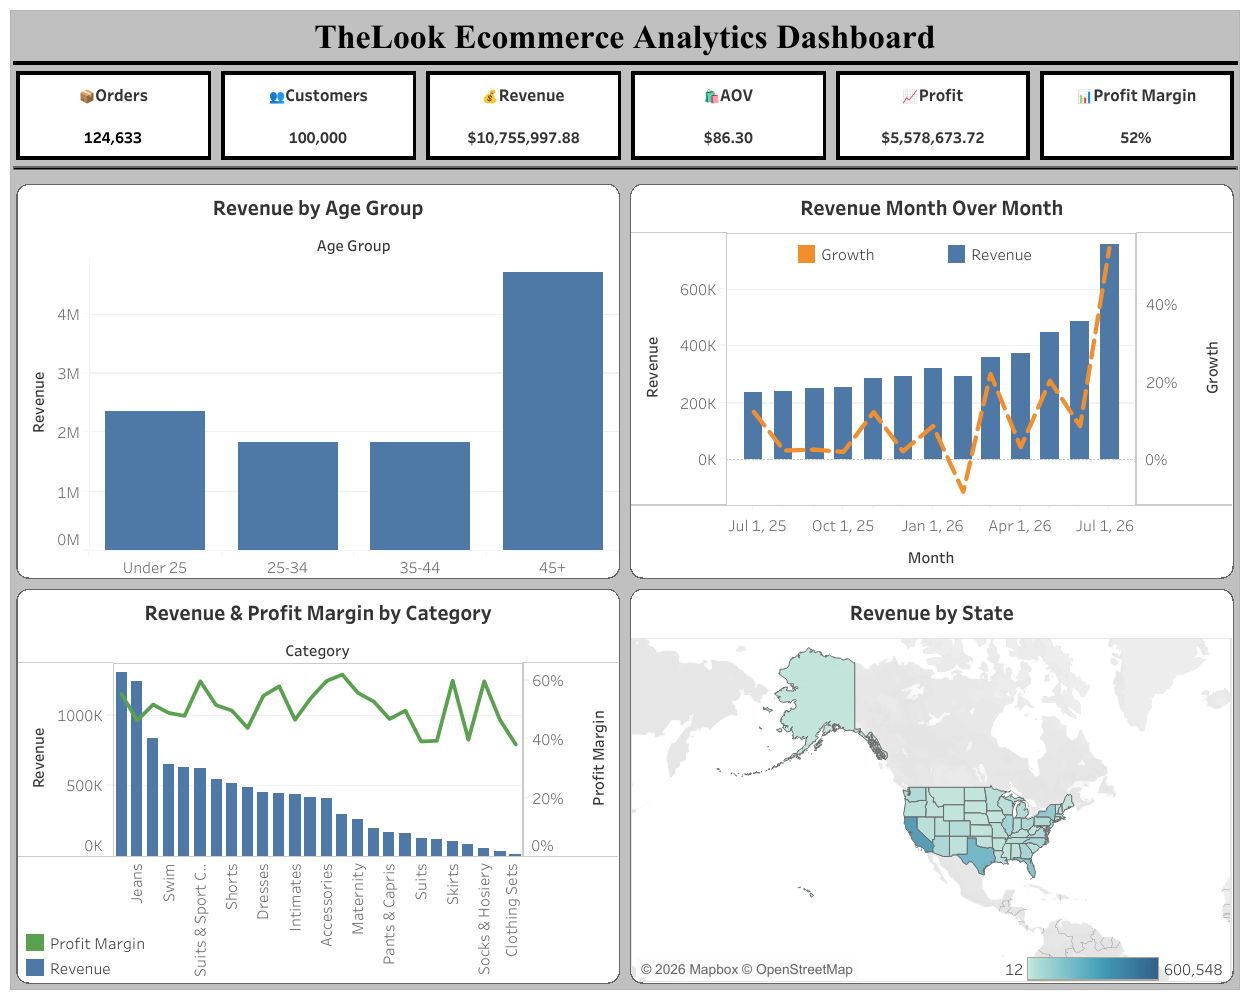
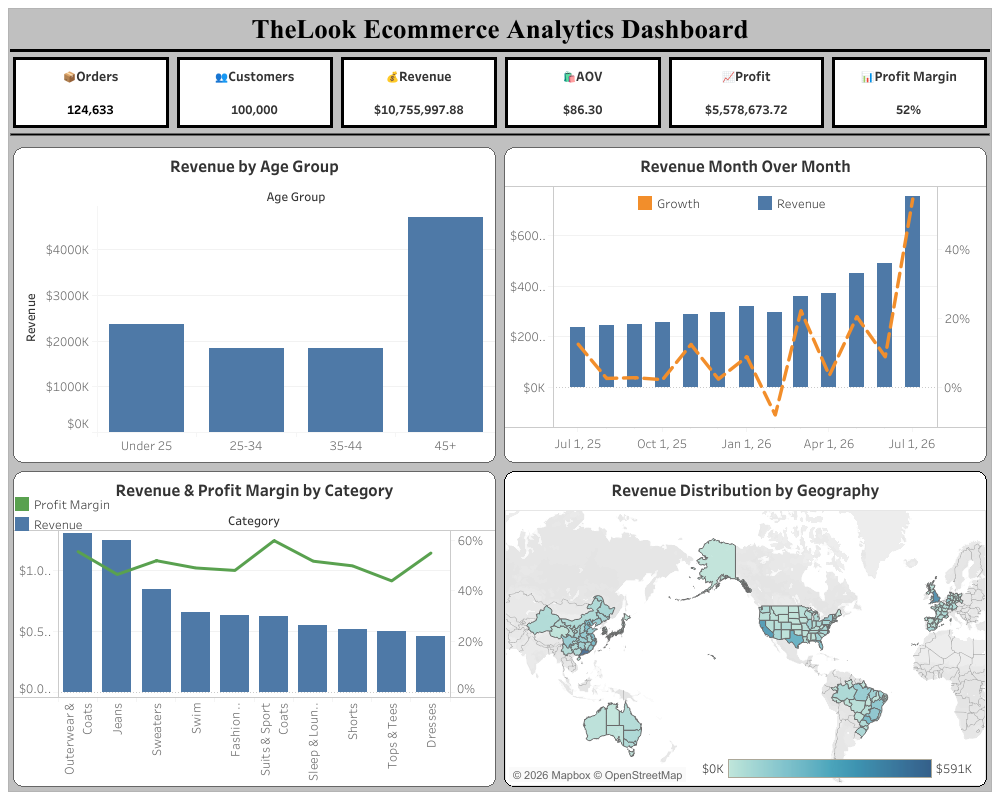
update thelook queries

diff --git a/thelook-ecommerce-analysis/README.md b/thelook-ecommerce-analysis/README.md
@@ -21,90 +21,19 @@ The dataset contains information on:
 
 The analysis focuses on sales performance, customer purchasing patterns, product profitability, and regional revenue distribution.
 
-**Last Updated:** 21 July 2026
-
----
-
-## Tools Used
-
-* Google BigQuery
-* SQL
-* Tableau Public
-
----
-
-## Project Workflow
-
-### 1. Data Exploration
-
-Explored and joined multiple tables from the dataset to understand relationships between customers, orders, products, and geographic locations.
-
-### 2. SQL Analysis
-
-Business questions were answered through SQL queries organized into separate analysis files:
-
-* [data_exploration.sql](./sql/data_exploration.sql)
-* [combined_kpi_query.sql](./sql/combined_kpi_query.sql)
-* [sales_analysis.sql](./sql/sales_analysis.sql)
-* [customer_analysis.sql](./sql/customer_analysis.sql)
-* [product_analysis.sql](./sql/product_analysis.sql)
-* [geographic_analysis.sql](./sql/geographic_analysis.sql)
-
-### 3. Dashboard Development
-
-The SQL outputs were visualized in Tableau Public to create an interactive dashboard focused on:
-
-* Business KPIs
-* Revenue Trends
-* Customer Demographics
-* Product Performance
-* Geographic Performance
+Tools Used: Google BigQuery, SQL, Tableau Public
 
 ---
 
 ## Analysis Performed
 
-### KPI Analysis
+### [Data Exploration](./sql/data_exploration.sql)
+
+I reviewed the dataset for missing values, duplicate primary keys, unusual age entries, pricing inconsistencies, order status distribution, and table relationships. No significant data quality issues were identified, and the data was suitable for sales, customer, and product analysis. Users were distributed across 14 countries. During the review, I found a few cases where country names were recorded in both English and local formats, such as Spain/España (1 user) and Germany/Deutschland (4 users).
+
+### [KPI Analysis](./sql/combined_kpi_query.sql)
 
 Calculated core business metrics:
-
-* Total Revenue
-* Total Orders
-* Total Customers
-* Average Order Value (AOV)
-* Total Profit
-* Overall Profit Margin
-
-### Sales Analysis
-
-* Monthly Revenue Trend
-* Month-over-Month Revenue Growth
-* Revenue Contribution by Customer Age Group
-
-### Customer Analysis
-
-* Top Spending Customers
-* Customer Distribution by Age Group
-* Customers with Multiple Purchases
-
-### Product Analysis
-
-* Top Revenue-Generating Products
-* Revenue by Product Category
-* Profit by Product Category
-* Profit Margin by Product Category
-* Highest Profit Products
-* Products Priced Above Average Retail Price
-
-### Geographic Analysis
-
-* Revenue by U.S. State
-* States with Highest Revenue
-* States with Highest Number of Inactive Customers
-
----
-
-## Key Performance Indicators
 
 | Metric              | Value  |
 | ------------------- | ------ |
@@ -115,28 +44,42 @@ Calculated core business metrics:
 | Total Profit        | $5.5M  |
 | Profit Margin       | 52%    |
 
----
+### [Sales Analysis](./sql/sales_analysis.sql)
 
-## Key Dashboard Insights
+* Monthly Revenue Trend
+* Month-over-Month Revenue Growth
+* Revenue Contribution by Customer Age Group
 
-### Customer Insights
+Monthly revenue showed a generally upward trend over time. Month over month (MoM) growth remained relatively stable, with occasional declines but no recurring negative pattern. Customers aged 45 and above contributed the largest share of revenue, accounting for approximately 44% of the total.
 
-* Customers aged **45+** generated the highest revenue among all age groups.
-* Older customer segments represent a significant revenue-driving demographic.
 
-### Sales Performance
+### [Customer Analysis](./sql/customer_analysis.sql)
 
-* Revenue showed consistent month-over-month growth during the analysis period.
+* Customer Distribution by Age Group
+* Customers with Multiple Purchases
+* Repeat Customers
 
-### Product Insights
+Customers aged 45 and above make up the largest segment of the customer base. Approximately 79% of all customers are active users, and around 35% of those active users are repeat customers.
 
-* **Outerwear & Coats** generated the highest revenue among all product categories.
-* **Jeans** emerged as the second-highest revenue-generating category.
-* Product category profit margins remained relatively consistent between **40% and 60%**, indicating balanced profitability across the product portfolio.
 
-### Geographic Insights
+### [Product Analysis](./sql/product_analysis.sql)
 
-* **California** generated the highest revenue among all U.S. states.
+* Revenue by Product Category
+* Profit by Product Category
+* Profit Margin by Product Category
+* Highest Profit Products
+* Products Priced Above Average Retail Price
+
+Profit margins across all product categories remained consistently strong, ranging between 40% and 60%. Among all categories, "Outerwear & Coats" generated the highest revenue.
+
+
+### [Geographic Analysis](./sql/geographic_analysis.sql)
+
+* Revenue by State and Country
+* States with Highest Revenue
+* States with Highest Number of Inactive Customers
+
+China generated the largest share of revenue (33%), followed by the United States (22%) and Brazil (14%). At the regional level, Guangdong (China), England (UK), and California (US) were the top revenue-contributing regions.
 
 ---
 
@@ -145,6 +88,15 @@ Calculated core business metrics:
 **Interactive Dashboard:** [TheLook Ecommerce Analytics Dashboard](https://public.tableau.com/views/Dashboard_17847458891130/Dashboard1?:language=en-US&:sid=&:redirect=auth&:display_count=n&:origin=viz_share_link)
 
 ![Dashboard](./screenshots/dashboard_overview.png)
+
+**Last Updated:** 21 July 2026
+
+---
+## Reccomendations
+
+- Creating targeted campaign for customers aged 45+
+- Investigating lower performing categories
+- Expanding successful marketing strategies from high performing regions to other markets.
 
 ---
 
